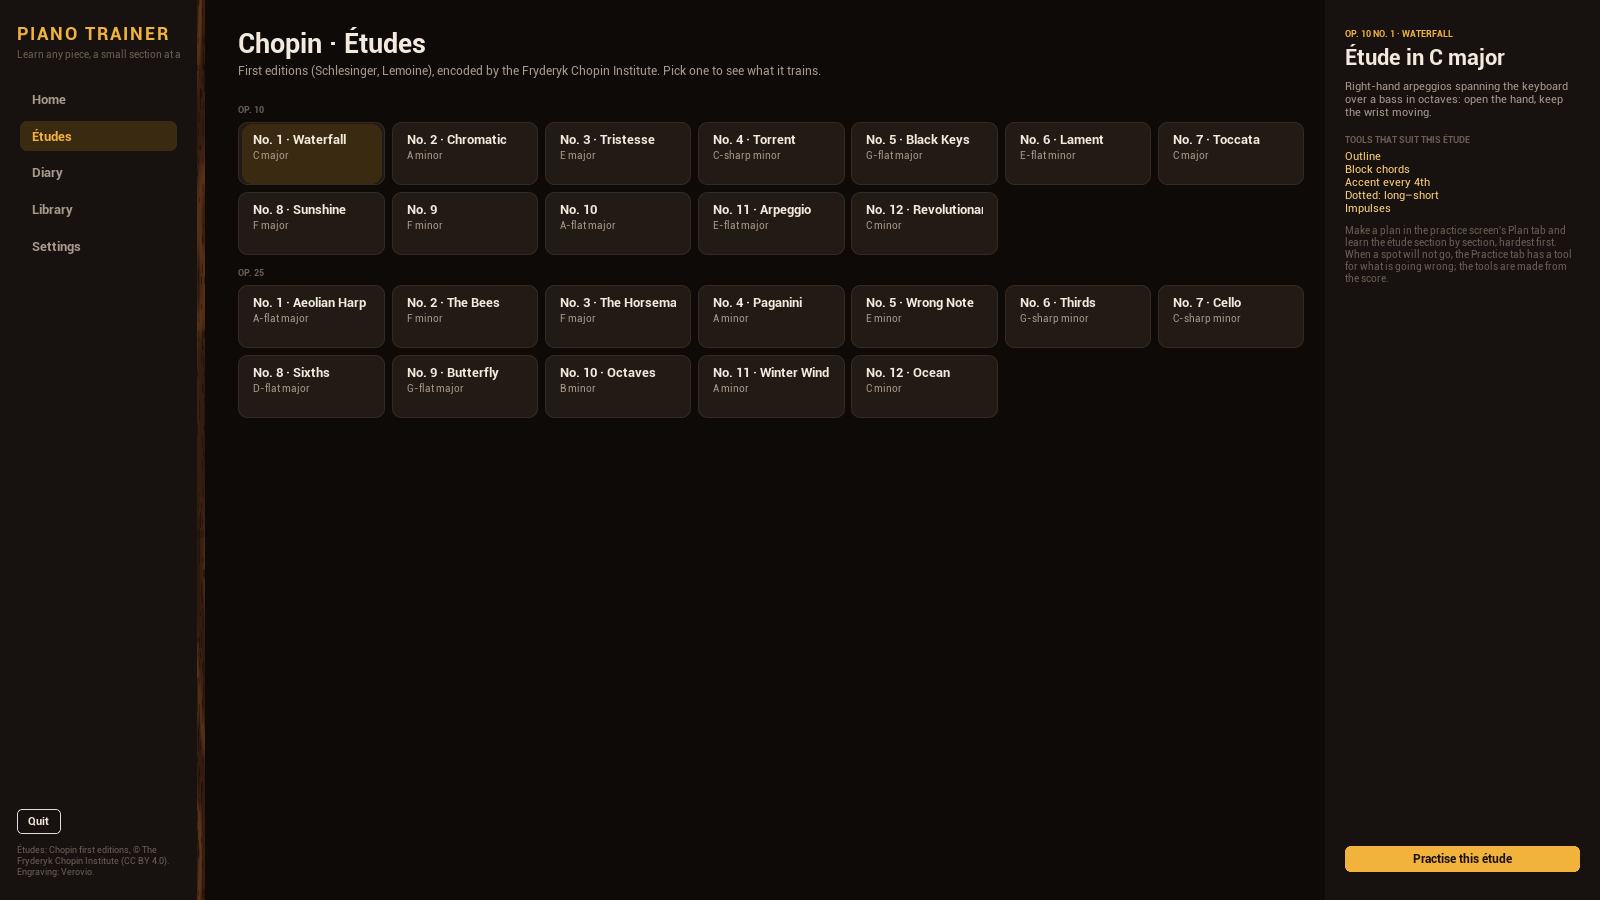
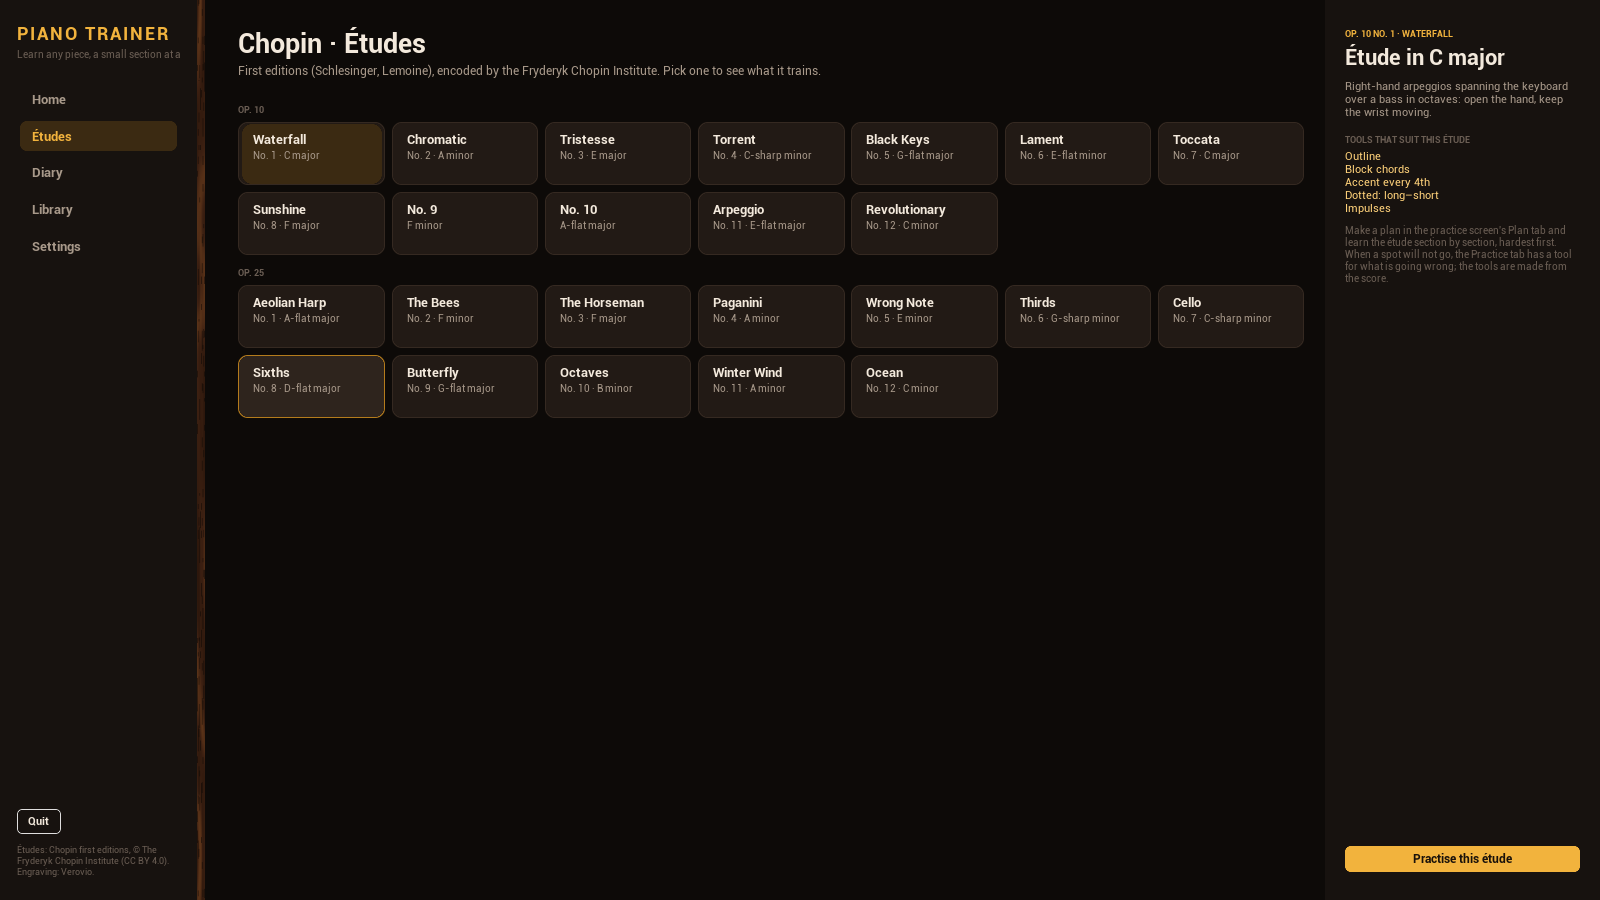
Etudes page: nickname as the tile title, number and key under it (long names were clipped)

diff --git a/Source/PianoTrainer/UI/SPianoHome.cpp b/Source/PianoTrainer/UI/SPianoHome.cpp
@@ -406,8 +406,16 @@ TSharedRef<SWidget> SPianoHome::MakeEtudesPage()
 			List->AddSlot().AutoHeight().Padding(FMargin(0.f, 14.f, 0.f, 8.f))[SectionLabel(FText::FromString(Opus.ToUpper()))];
 			List->AddSlot().AutoHeight()[SAssignNew(Row, SWrapBox).UseAllottedSize(true).InnerSlotPadding(FVector2D(8.0, 8.0))];
 		}
-		// "No. 1 · Waterfall" over "C major"
+		// "Waterfall" over "No. 1 · C major" (the number alone when it has no nickname)
 		const FString Number = NoAt != INDEX_NONE ? E.Subtitle.Mid(NoAt + 1) : E.Subtitle;
+		FString No, Nickname;
+		if (!Number.Split(TEXT(" · "), &No, &Nickname))
+		{
+			No = Number;
+		}
+		const FString Key = E.Title.Replace(TEXT("Étude in "), TEXT(""));
+		const FString TileTitle = Nickname.IsEmpty() ? No : Nickname;
+		const FString TileSub = Nickname.IsEmpty() ? Key : No + TEXT(" · ") + Key;
 		Row->AddSlot()
 		[
 			SNew(SBox).WidthOverride(176.f).HeightOverride(76.f)
@@ -423,8 +431,8 @@ TSharedRef<SWidget> SPianoHome::MakeEtudesPage()
 					.Padding(FMargin(14.f, 10.f))
 					[
 						SNew(SVerticalBox)
-						+ SVerticalBox::Slot().AutoHeight()[SNew(STextBlock).Font(PianoStyle::Font(12, TEXT("Bold"))).ColorAndOpacity(PianoStyle::Text).Text(FText::FromString(Number))]
-						+ SVerticalBox::Slot().AutoHeight().Padding(FMargin(0.f, 3.f, 0.f, 0.f))[SNew(STextBlock).Font(PianoStyle::Font(9)).ColorAndOpacity(PianoStyle::TextDim).Text(FText::FromString(E.Title.Replace(TEXT("Étude in "), TEXT(""))))]
+						+ SVerticalBox::Slot().AutoHeight()[SNew(STextBlock).Font(PianoStyle::Font(12, TEXT("Bold"))).ColorAndOpacity(PianoStyle::Text).Text(FText::FromString(TileTitle))]
+						+ SVerticalBox::Slot().AutoHeight().Padding(FMargin(0.f, 3.f, 0.f, 0.f))[SNew(STextBlock).Font(PianoStyle::Font(9)).ColorAndOpacity(PianoStyle::TextDim).Text(FText::FromString(TileSub))]
 					]
 				]
 			]
